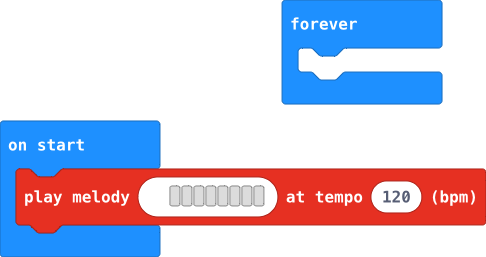
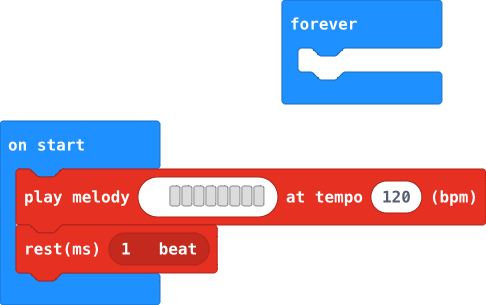
Update main.blocks, main.ts

diff --git a/main.ts b/main.ts
@@ -1,4 +1,5 @@
 music.playMelody("- - - - - - - - ", 120)
+music.rest(music.beat(BeatFraction.Whole))
 basic.forever(function () {
 	
 })
